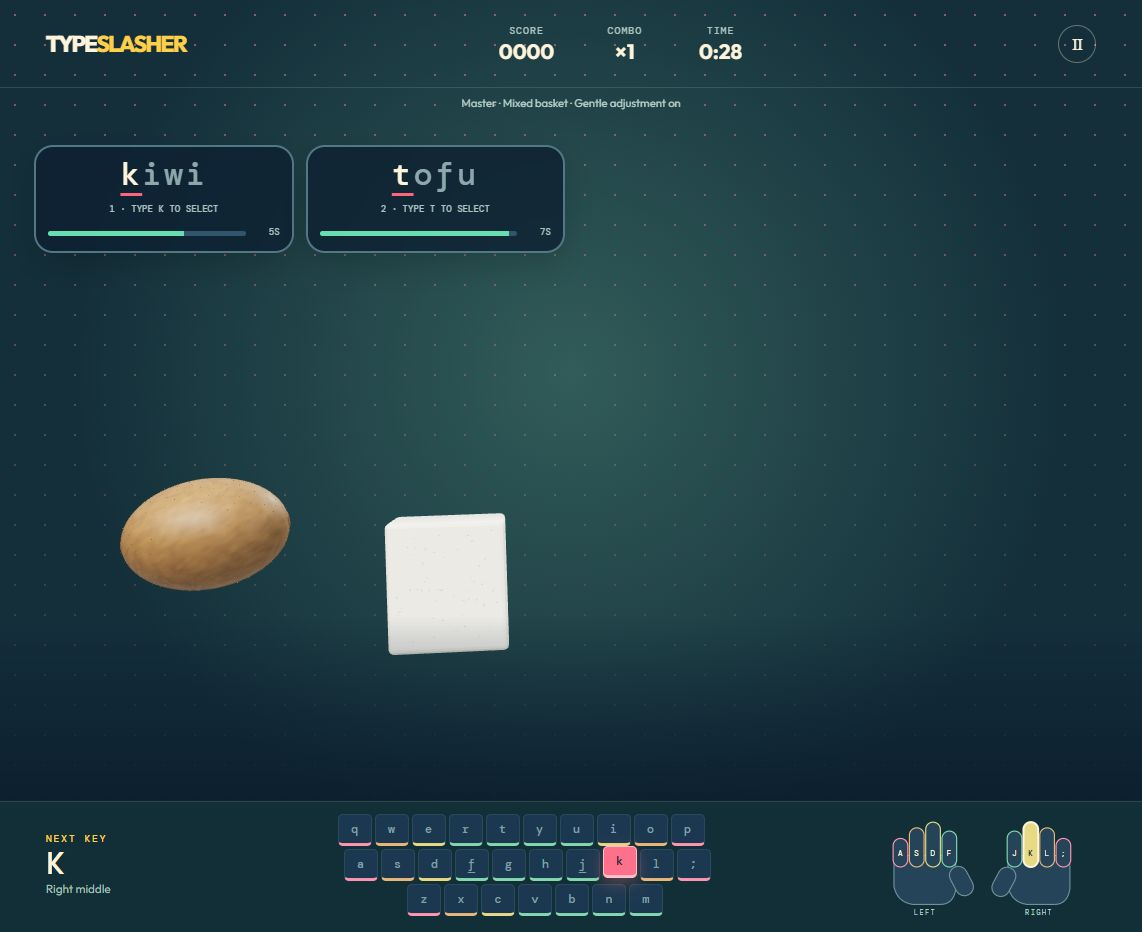
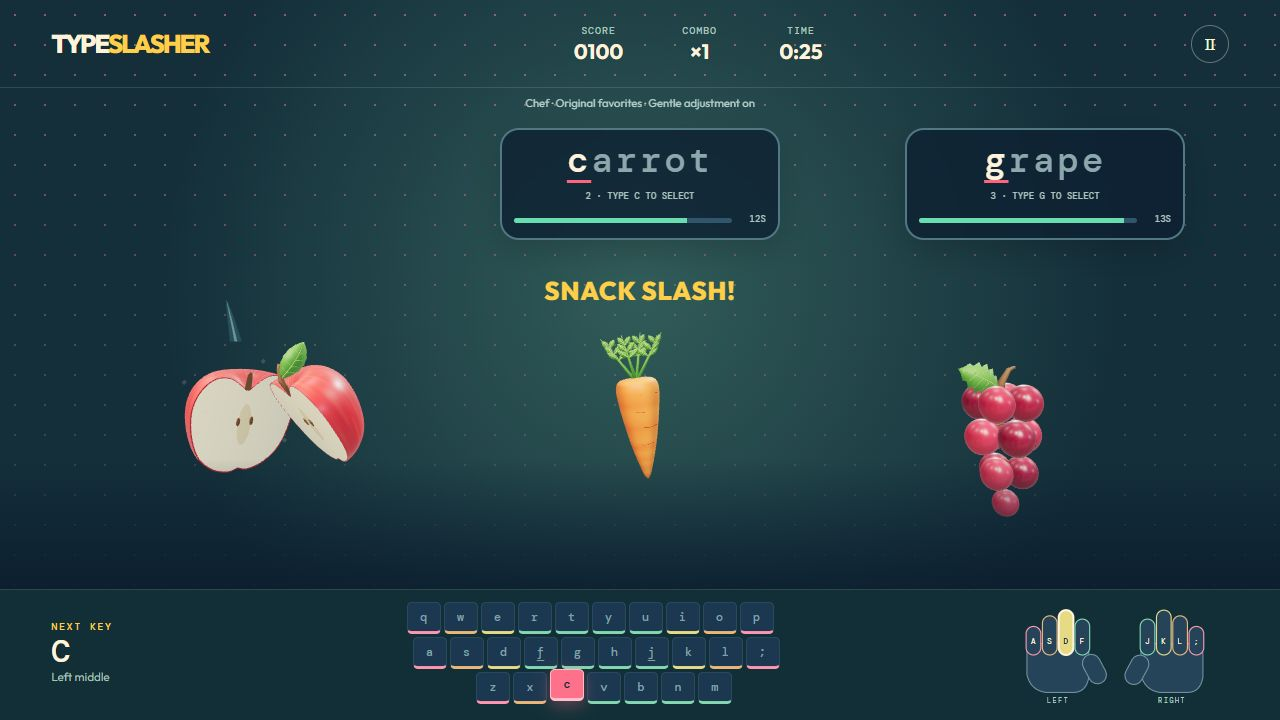
Show a sliced-open apple in gameplay and feature homepage artwork

diff --git a/README.md b/README.md
@@ -23,9 +23,15 @@ Finger hints and home-row drills help players practice. Adjustable pace, reduced
 
 ## Gameplay and art
 
+### Homepage artwork
+
+![Typeslasher homepage with dimensional lettering, sculpted foods, and arcade controls](docs/screenshots/home.jpg)
+
+The midnight snack arcade introduces the game with a food-filled counter, oversized keycaps, and a plum, cream, yellow, and mint palette.
+
 ### Food Slash
 
-![Flying food targets with an on-screen keyboard and finger guidance](docs/screenshots/food-slash.jpg)
+![An apple sliced open during Food Slash, alongside carrot and grape targets and finger guidance](docs/screenshots/food-slash.jpg)
 
 Each active food has a different first letter. Start typing its name to select it, then finish the word to cut the model. Longer words receive more time. Accuracy, combos, and completed slices shape the score.
 

diff --git a/docs/screenshots/README.md b/docs/screenshots/README.md
@@ -1,6 +1,7 @@
 # Screenshot sources
 
-- `home.jpg` and `food-slash.jpg`: browser captures taken during GitHub preparation on 2026-10-03.
+- `home.jpg`: browser homepage capture taken during GitHub preparation on 2026-10-03.
+- `food-slash.jpg`: production-build browser capture taken on 2026-10-03, showing an apple split into its modeled halves after a successful typed word, alongside carrot and grape targets.
 - `sentence-slash.png`: saved version 1.6 gameplay checkpoint, copied unchanged from `art-review/pumpkin-kitchen-1.6.png`.
 - `garden-assets.png`, `market-assets.png`, and `pantry-assets.png`: Blender whole/cut review sheets, copied unchanged from the corresponding `art-review/*-review.png` files.
 - `kitchen-render.png`: Blender review render, copied unchanged from `art-review/kitchen-daylight-v2.png`.

diff --git a/docs/PORTFOLIO.md b/docs/PORTFOLIO.md
@@ -17,8 +17,9 @@ Codex assisted development, Blender and Python supported the asset pipeline, and
 
 ## Visuals
 
+- `screenshots/home.jpg`: homepage artwork and arcade menu.
 - `screenshots/sentence-slash.png`: main kitchen gameplay image.
-- `screenshots/food-slash.jpg`: Food Slash with visible targets and finger guidance.
+- `screenshots/food-slash.jpg`: Food Slash with a sliced-open apple, visible targets, and finger guidance.
 - `screenshots/garden-assets.png`: whole foods and modeled cut interiors.
 - `screenshots/market-assets.png`: fruit anatomy and asset variety.
 - `screenshots/kitchen-render.png`: Blender kitchen review render.
